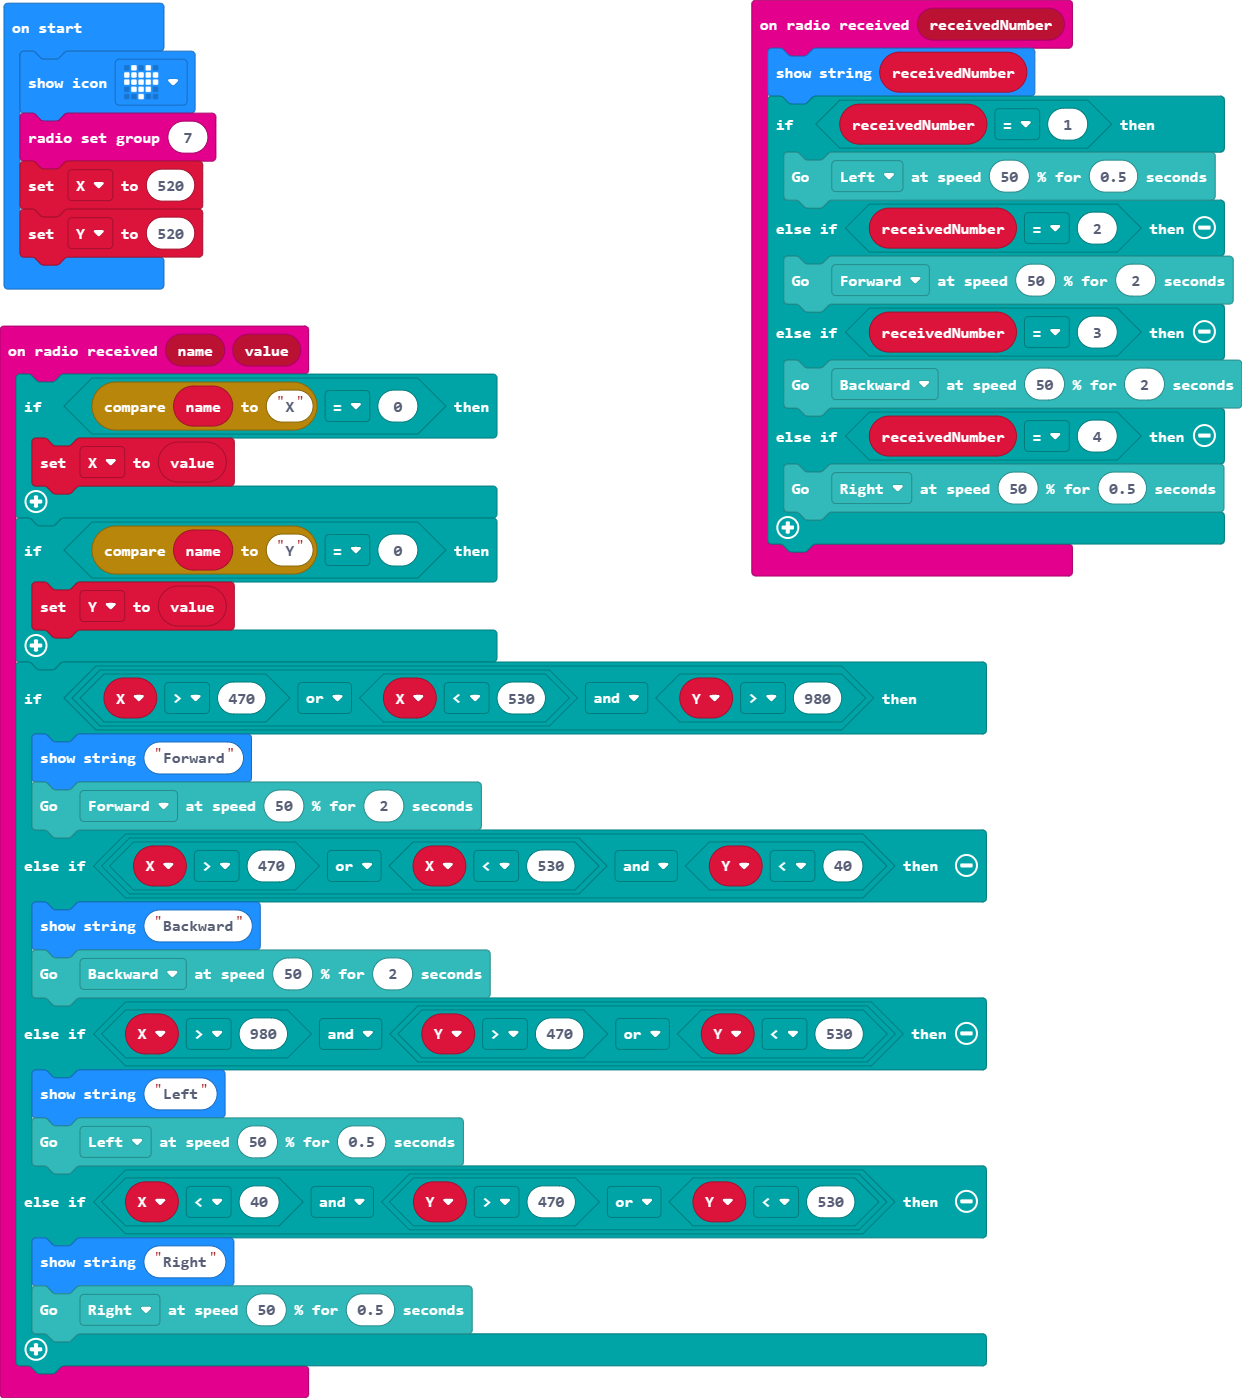
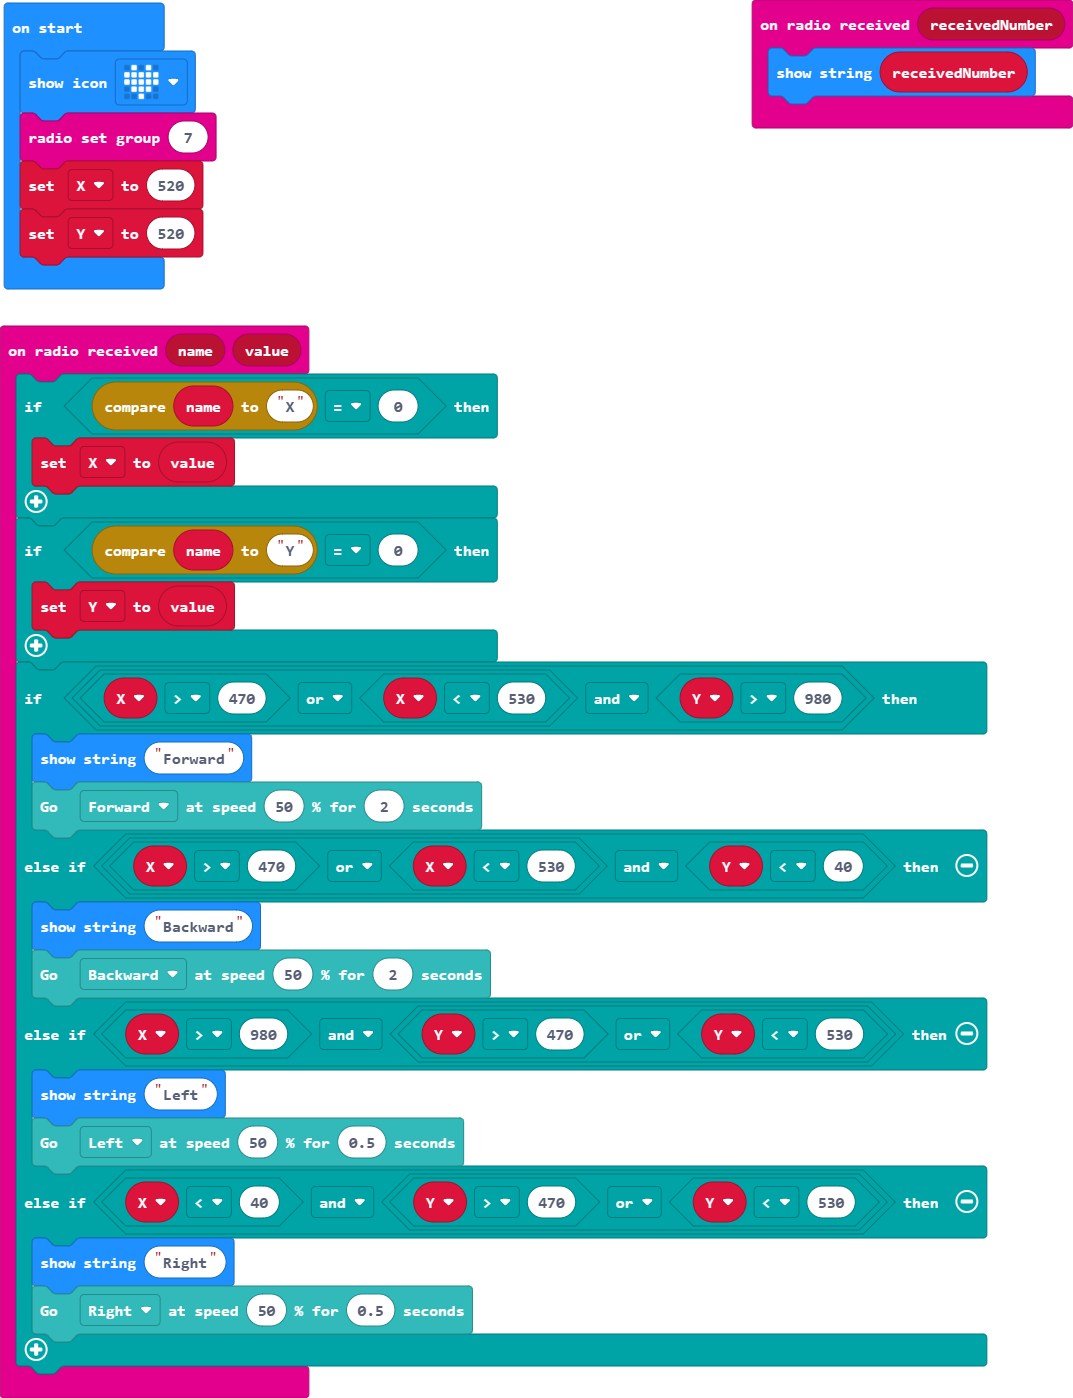
Update pxt.json, main.blocks, main.ts

diff --git a/main.ts b/main.ts
@@ -1,14 +1,5 @@
 radio.onReceivedNumber(function (receivedNumber) {
     basic.showString("" + (receivedNumber))
-    if (receivedNumber == 1) {
-        TPBot.setTravelTime(TPBot.DriveDirection.Left, 50, 0.5)
-    } else if (receivedNumber == 2) {
-        TPBot.setTravelTime(TPBot.DriveDirection.Forward, 50, 2)
-    } else if (receivedNumber == 3) {
-        TPBot.setTravelTime(TPBot.DriveDirection.Backward, 50, 2)
-    } else if (receivedNumber == 4) {
-        TPBot.setTravelTime(TPBot.DriveDirection.Right, 50, 0.5)
-    }
 })
 radio.onReceivedValue(function (name, value) {
     if (name.compare("X") == 0) {
